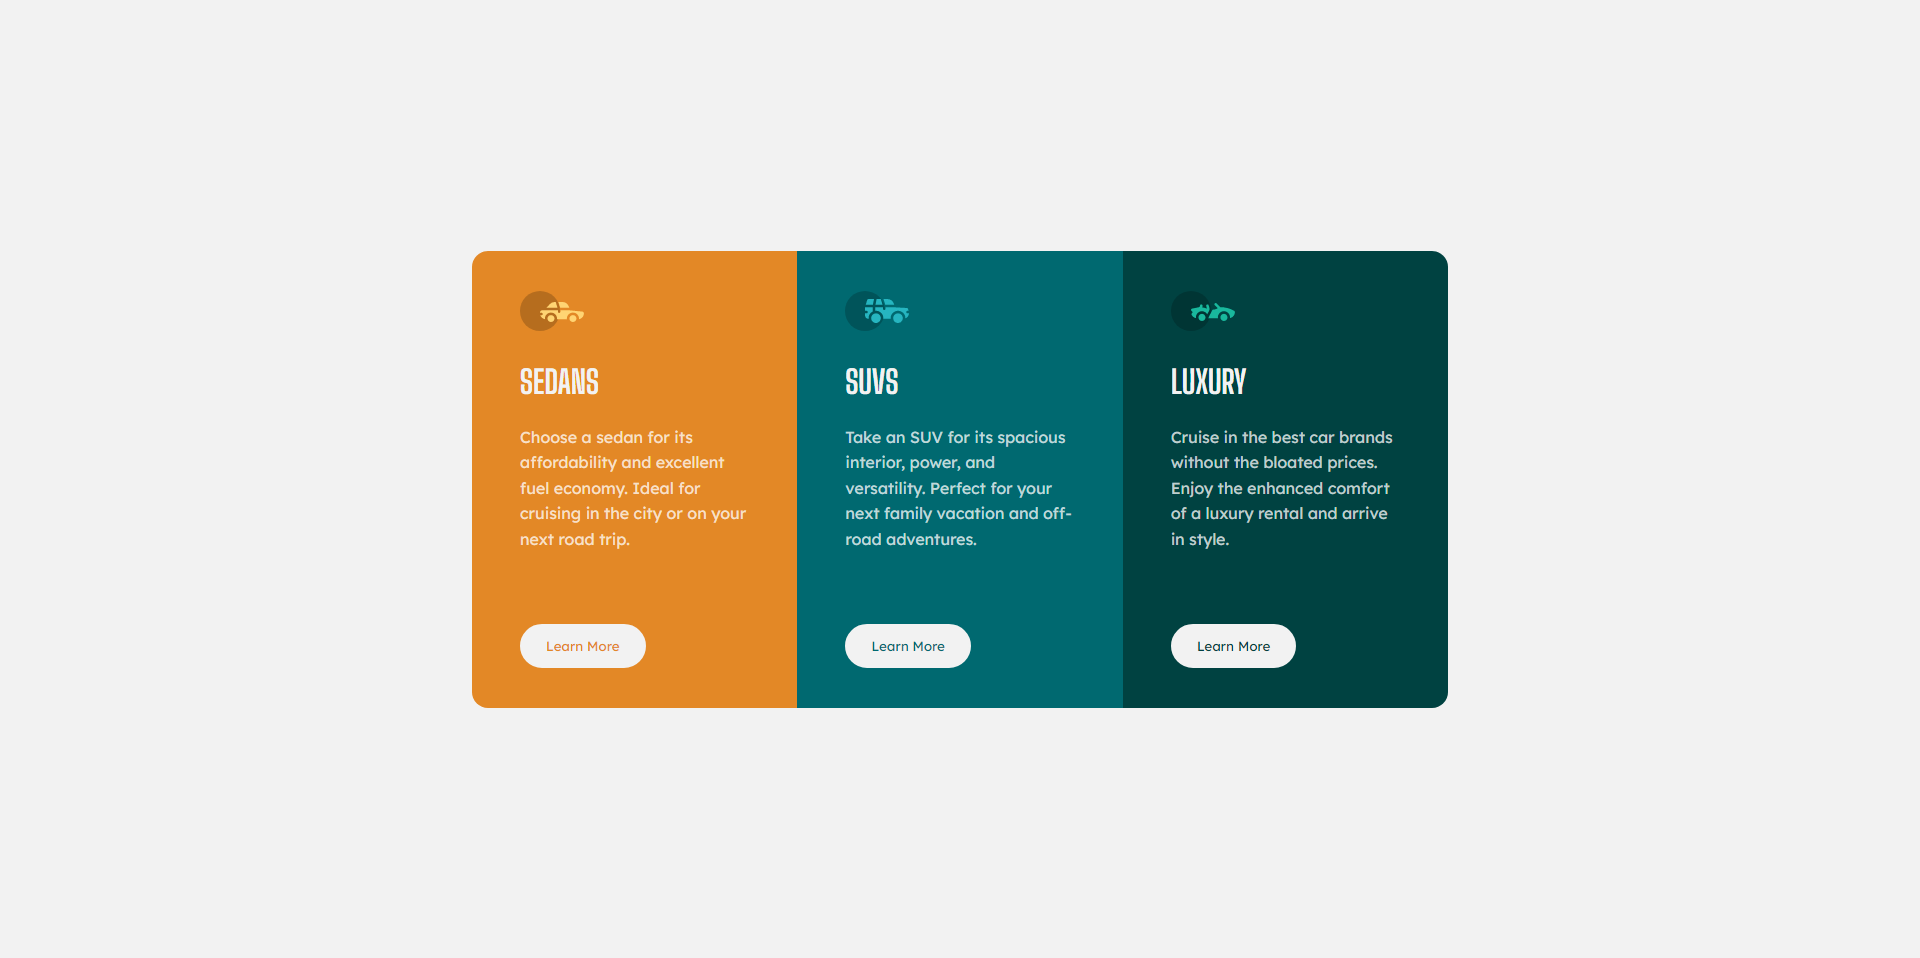
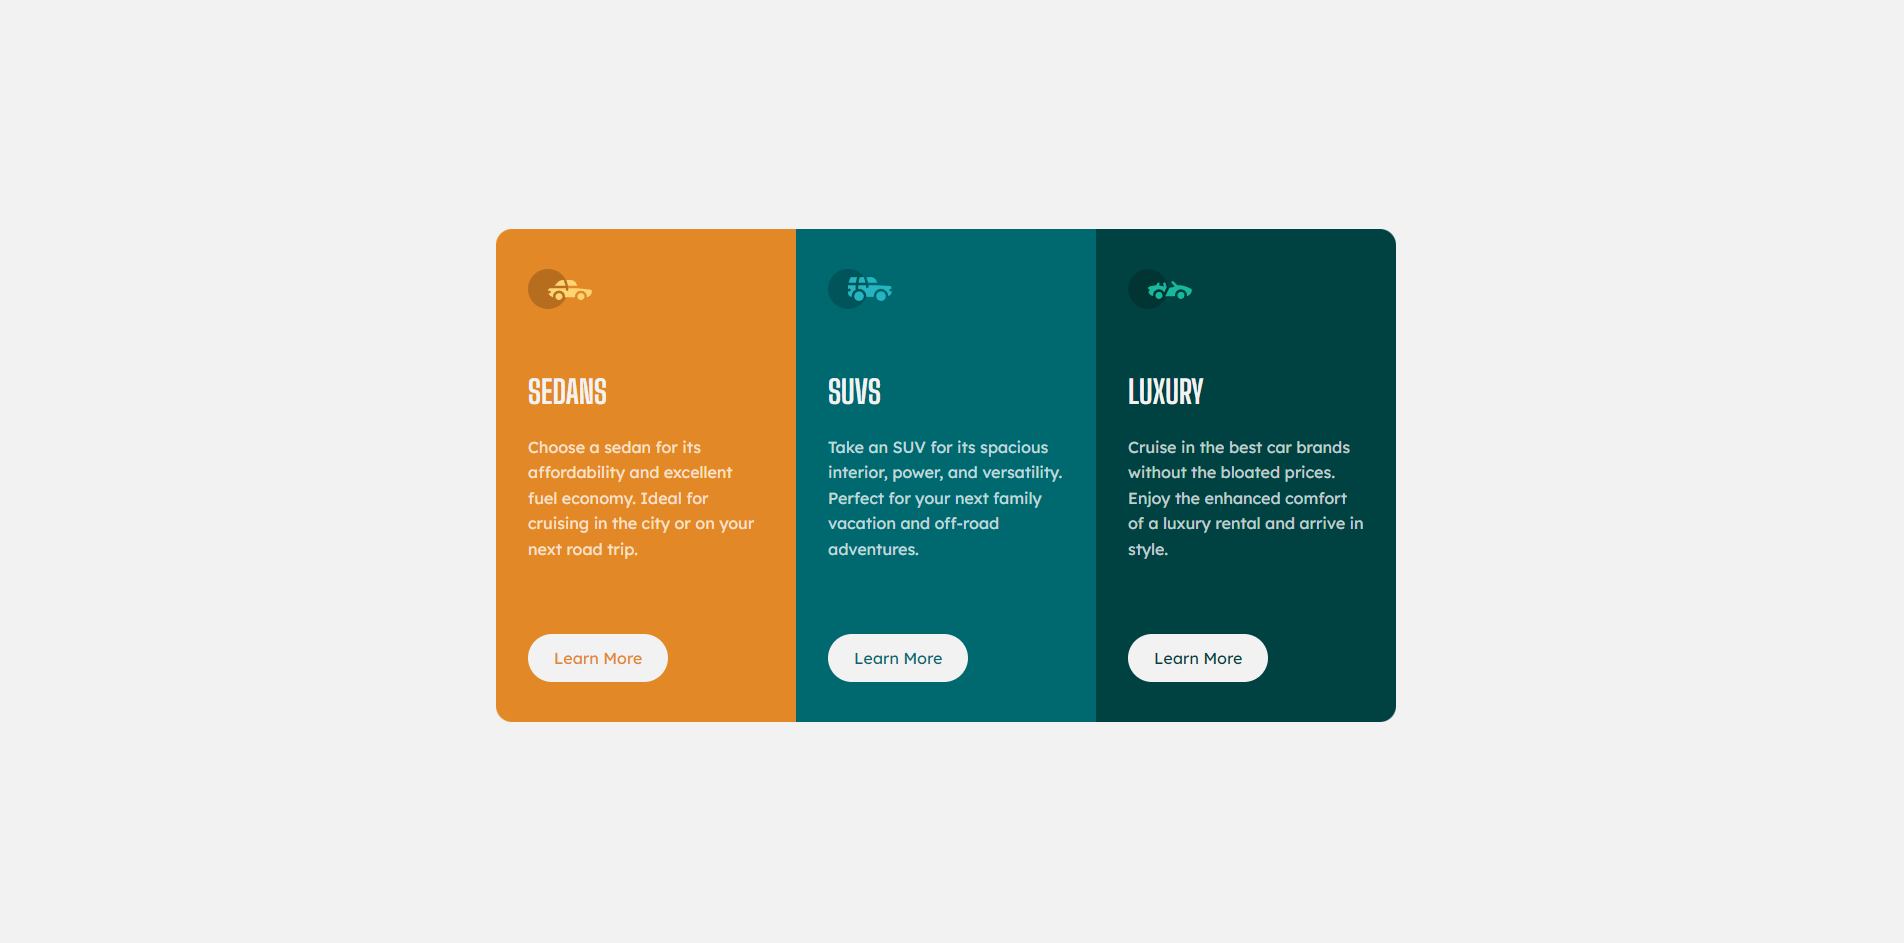
.

Changed region(s): [[0.2479, 0.2153, 0.7747, 0.7688], [0.6197, 0.3075, 0.6507, 0.3383]]

diff --git a/css/style.css b/css/style.css
@@ -81,7 +81,7 @@ body {
 }
 
 .container {
-  max-width: 56rem;
+  max-width: 58.25rem;
   padding-inline: 1rem;
   display: grid;
   grid-template-columns: 1fr;

diff --git a/README.md b/README.md
@@ -1,4 +1,4 @@
-# Frontend Mentor - 3 Column Preview Card Componenet
+# Frontend Mentor - 3 Column Preview Card Component
 
 ### Screenshot
 
@@ -6,7 +6,7 @@
 
 ### Links
 
-- Live Site URL: [https://3-column-preview-card-component-10.netlify.app/]
+- Live Site URL: [https://3-column-preview-card-component-10.vercel.app/]
 
 ### Built with
 
